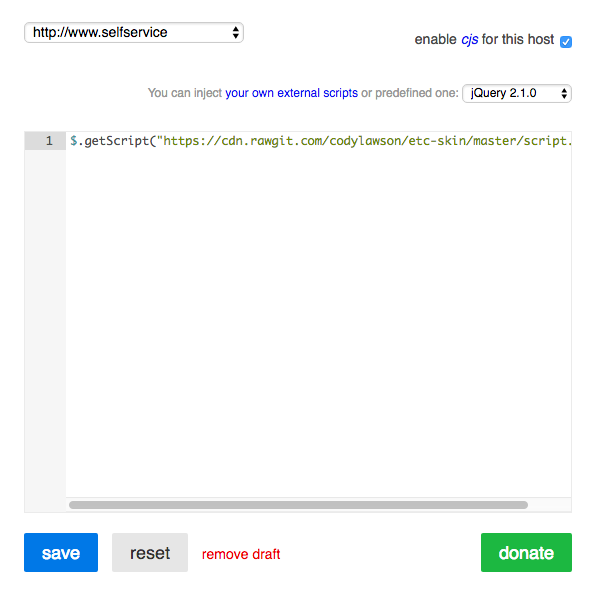
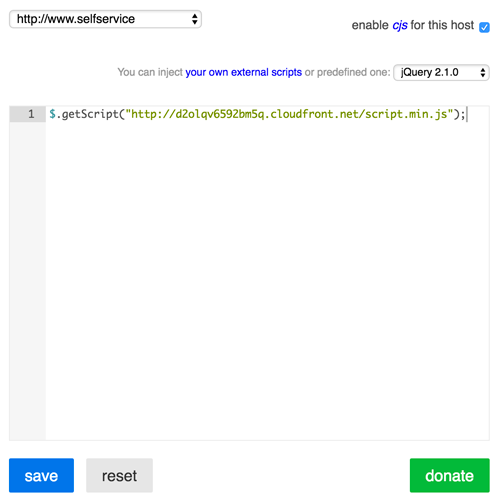
Update instructions and cdn link

diff --git a/README.md b/README.md
@@ -15,20 +15,16 @@ There are two chrome extensions needed to apply the theme:
 
 ##Installation
 1. Open the Stylebot options menu and go to the "Styles" tab.
-2. Click "Add New Style" and paste this url http://www.selfservice/etc/cfdocs/detail into the first input.
-3. Paste the following css into the code box and click "Add".
-```
-@import url(https://cdn.rawgit.com/codylawson/etc-skin/master/style.css);
-```
+2. Click "Add New Style" and paste this url `http://www.selfservice/etc/cfdocs/detail` into the first input.
+3. Paste the following css into the code box. `@import url(http://d2olqv6592bm5q.cloudfront.net/style.min.css);`
+4. Click "Add".
 ![stylebot populated style](images/stylebot-sample.png)
-4. Navigate to [ETC](http://www.selfservice/etc/cfdocs/detail) and login.
-5. Open the CJS menu and make sure "enable cjs for this host" is selected.
-6. Select jQuery 2.1.0 from the select box.
-7. Paste the following javascript into the code box and click "Save".
-```
-$.getScript("https://cdn.rawgit.com/codylawson/etc-skin/master/script.js");
-```
+5. Navigate to [ETC](http://www.selfservice/etc/cfdocs/detail) and login.
+6. Open the CJS menu and make sure "enable cjs for this host" is selected.
+7. Select jQuery 2.1.0 from the select box.
+8. Paste the following javascript into the code box. `$.getScript("http://d2olqv6592bm5q.cloudfront.net/script.min.js");`
+9. Click "Save".
 ![cjs populated options](images/cjs-sample.png)
-8. Refresh ETC.
+10. Reload ETC.
 
 For questions or help email me at clawson@esri.com
